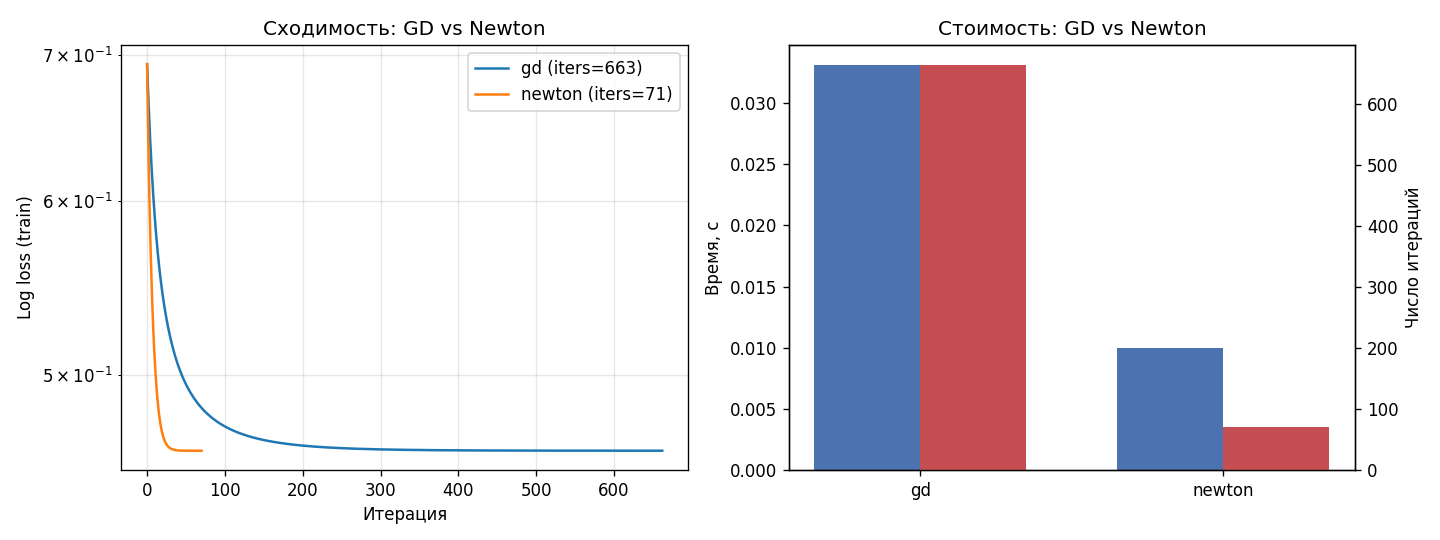
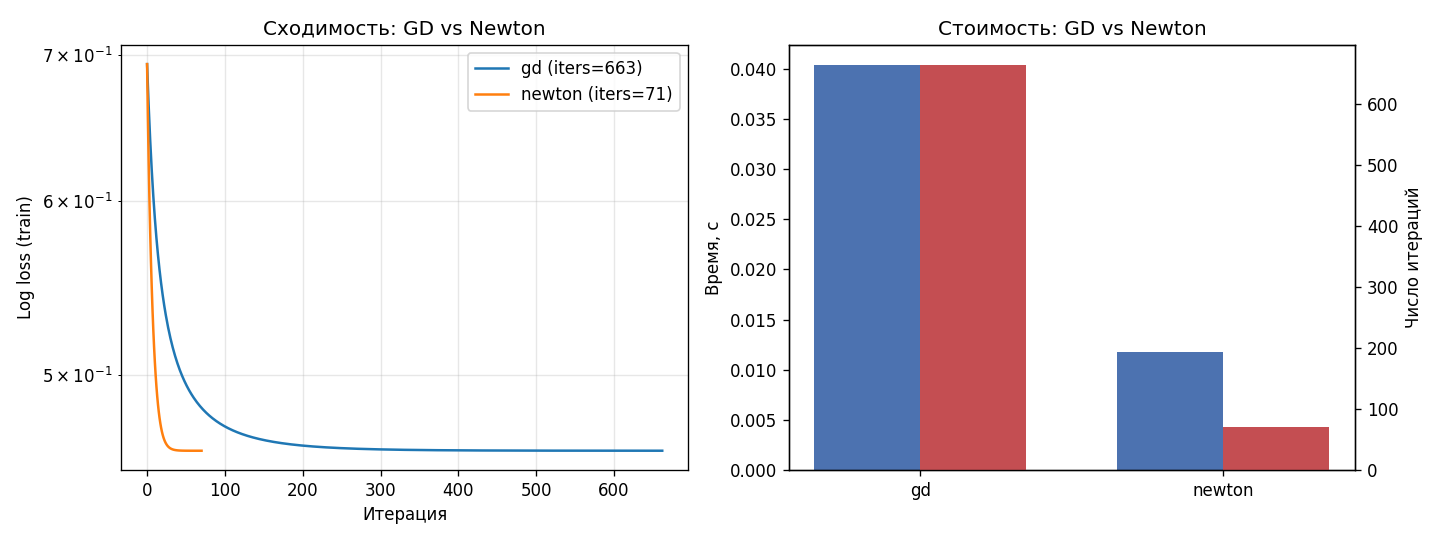
поправил

diff --git a/ais/lab6/main.py b/ais/lab6/main.py
@@ -18,7 +18,7 @@ DATA_PATH = 'diabetes.csv'
 def main():
     os.makedirs(OUT_DIR, exist_ok=True)
 
-    # ---------- 1. Данные и статистики ----------
+    #  1. Данные и статистики 
     print('=' * 70)
     print('1. Загрузка и описательные статистики')
     print('=' * 70)
@@ -37,7 +37,7 @@ def main():
     plot_boxplots_by_class(df_raw, OUT_DIR)
     plot_correlation(df_raw, OUT_DIR)
 
-    # ---------- 2. Препроцессинг ----------
+    #  2. Препроцессинг 
     print('\n' + '=' * 70)
     print('2. Препроцессинг')
     print('=' * 70)
@@ -56,7 +56,7 @@ def main():
     y_train = data['y_train']
     y_test = data['y_test']
 
-    # ---------- 3. Базовая модель ----------
+    #  3. Базовая модель 
     print('\n' + '=' * 70)
     print('3. Базовая модель: GD, lr=0.1, n_iter=1000')
     print('=' * 70)
@@ -77,7 +77,7 @@ def main():
     for n, w in zip(names, theta):
         print(f'  {n:15s}: {w: .4f}')
 
-    # ---------- 4. Grid search ----------
+    #  4. Grid search 
     print('\n' + '=' * 70)
     print('4. Grid search по гиперпараметрам')
     print('=' * 70)
@@ -85,7 +85,7 @@ def main():
                           lrs=(0.001, 0.01, 0.05, 0.1, 0.5),
                           iters=(100, 500, 1000, 5000),
                           optimizers=('gd', 'newton'),
-                          newton_lrs=(0.5, 1.0),   # <-- ИСПРАВЛЕНИЕ
+                          newton_lrs=(0.5, 1.0),
                           newton_max_iter=100)
     df_results.to_csv('grid_results.csv', index=False)
     print('\nСохранено в grid_results.csv')
@@ -97,7 +97,7 @@ def main():
 
     plot_grid_heatmap(df_results, OUT_DIR)
 
-    # ---------- 5. Learning rate study ----------
+    #  5. Learning rate study 
     print('\n' + '=' * 70)
     print('5. Влияние learning rate')
     print('=' * 70)
@@ -105,7 +105,7 @@ def main():
                         lrs=(0.001, 0.01, 0.05, 0.1, 0.5),
                         n_iterations=1000, out_dir=OUT_DIR)
 
-    # ---------- 6. Iterations study ----------
+    #  6. Iterations study 
     print('\n' + '=' * 70)
     print('6. Влияние числа итераций')
     print('=' * 70)
@@ -114,7 +114,7 @@ def main():
                      iterations=(10, 50, 100, 200, 500, 1000, 2000, 5000),
                      out_dir=OUT_DIR)
 
-    # ---------- 7. GD vs Newton ----------
+    #  7. GD vs Newton 
     print('\n' + '=' * 70)
     print('7. Сравнение GD и Newton')
     print('=' * 70)
@@ -122,7 +122,7 @@ def main():
                        lr=0.1, gd_iters=2000, newton_iters=100,
                        out_dir=OUT_DIR)
 
-    # ---------- 8. Выводы ----------
+    #  8. Выводы 
     print('\n' + '=' * 70)
     print('8. Выводы')
     print('=' * 70)

diff --git a/ais/lab6/experiments.py b/ais/lab6/experiments.py
@@ -14,19 +14,13 @@ def run_grid(X_train, y_train, X_test, y_test,
              lrs=(0.001, 0.01, 0.05, 0.1, 0.5),
              iters=(100, 500, 1000, 5000),
              optimizers=('gd', 'newton'),
-             newton_lrs=(0.5, 1.0),      # <-- ИСПРАВЛЕНИЕ: свой набор для Ньютона
+             newton_lrs=(0.5, 1.0),
              newton_max_iter=100):
-    """
-    Тройной цикл по гиперпараметрам.
-    Для 'newton' используем newton_lrs (классические 0.5, 1.0),
-    для 'gd' — lrs. Для Ньютона ограничиваем n_iter, чтобы не гонять
-    5000 итераций впустую.
-    """
     rows = []
     print('\n=== Grid search ===')
     for opt in optimizers:
-        cur_lrs = newton_lrs if opt == 'newton' else lrs   # <-- ИСПРАВЛЕНИЕ
-        for lr in cur_lrs:                                 # <-- ИСПРАВЛЕНИЕ: cur_lrs
+        cur_lrs = newton_lrs if opt == 'newton' else lrs
+        for lr in cur_lrs:
             for ni in iters:
                 eff_ni = min(ni, newton_max_iter) if opt == 'newton' else ni
                 theta, hist, n_done, t = fit(

diff --git a/ais/lab6/preprocessing.py b/ais/lab6/preprocessing.py
@@ -10,7 +10,6 @@ def load_data(path='diabetes.csv'):
 
 
 def report_missing(df):
-    """Печатает, сколько нулей в колонках, где 0 = пропуск."""
     print('\n=== Нули в колонках, где 0 = пропуск (до обработки) ===')
     for col in ZERO_AS_NAN_COLS:
         n = int((df[col] == 0).sum())
@@ -26,7 +25,6 @@ def fix_zeros(df):
 
 
 def split_data(X, y, test_size=0.2, random_state=42):
-    """Свой shuffle-split: перемешиваем индексы и режем по границе."""
     X = np.asarray(X, dtype=float)
     y = np.asarray(y, dtype=float)
     n = len(y)
@@ -41,8 +39,6 @@ def split_data(X, y, test_size=0.2, random_state=42):
 def fill_zeros_with_median(X_train, X_test, feature_names):
     """
     Заполняет NaN медианой train-набора.
-    X уже numpy-массивы; feature_names — список имён, чтобы знать, где NaN.
-    Возвращает (X_train, X_test, medians_dict).
     """
     X_train = X_train.copy()
     X_test = X_test.copy()

diff --git a/ais/lab6/logistic_regression.py b/ais/lab6/logistic_regression.py
@@ -9,8 +9,7 @@ def sigmoid(z):
 
 
 def compute_loss(X, y, theta):
-    """Log loss (binary cross-entropy)."""
-    m = len(y)
+    """Log loss """
     h = sigmoid(X @ theta)
     h = np.clip(h, 1e-15, 1 - 1e-15)
     return -np.mean(y * np.log(h) + (1 - y) * np.log(1 - h))
@@ -32,12 +31,9 @@ def compute_hessian(X, theta):
 
 def fit(X, y, learning_rate=0.1, n_iterations=1000,
         optimizer='gd', tol=1e-7, verbose=False):
-    """
-    Обучает логистическую регрессию.
-    optimizer='gd'     — градиентный спуск: theta -= lr * grad
-    optimizer='newton' — упрощённый Ньютон: theta -= lr * pinv(H) @ grad
-    Возвращает (theta, history_loss, n_iters_done, time_sec).
-    """
+
+    #Обучает логистическую регрессию.
+
     X = np.asarray(X, dtype=float)
     y = np.asarray(y, dtype=float)
     n_features = X.shape[1]

diff --git a/ais/lab6/stats_plots.py b/ais/lab6/stats_plots.py
@@ -3,7 +3,7 @@ import os
 import numpy as np
 import pandas as pd
 import matplotlib
-matplotlib.use('Agg')  # чтобы работало без GUI
+matplotlib.use('Agg')
 import matplotlib.pyplot as plt
 
 
